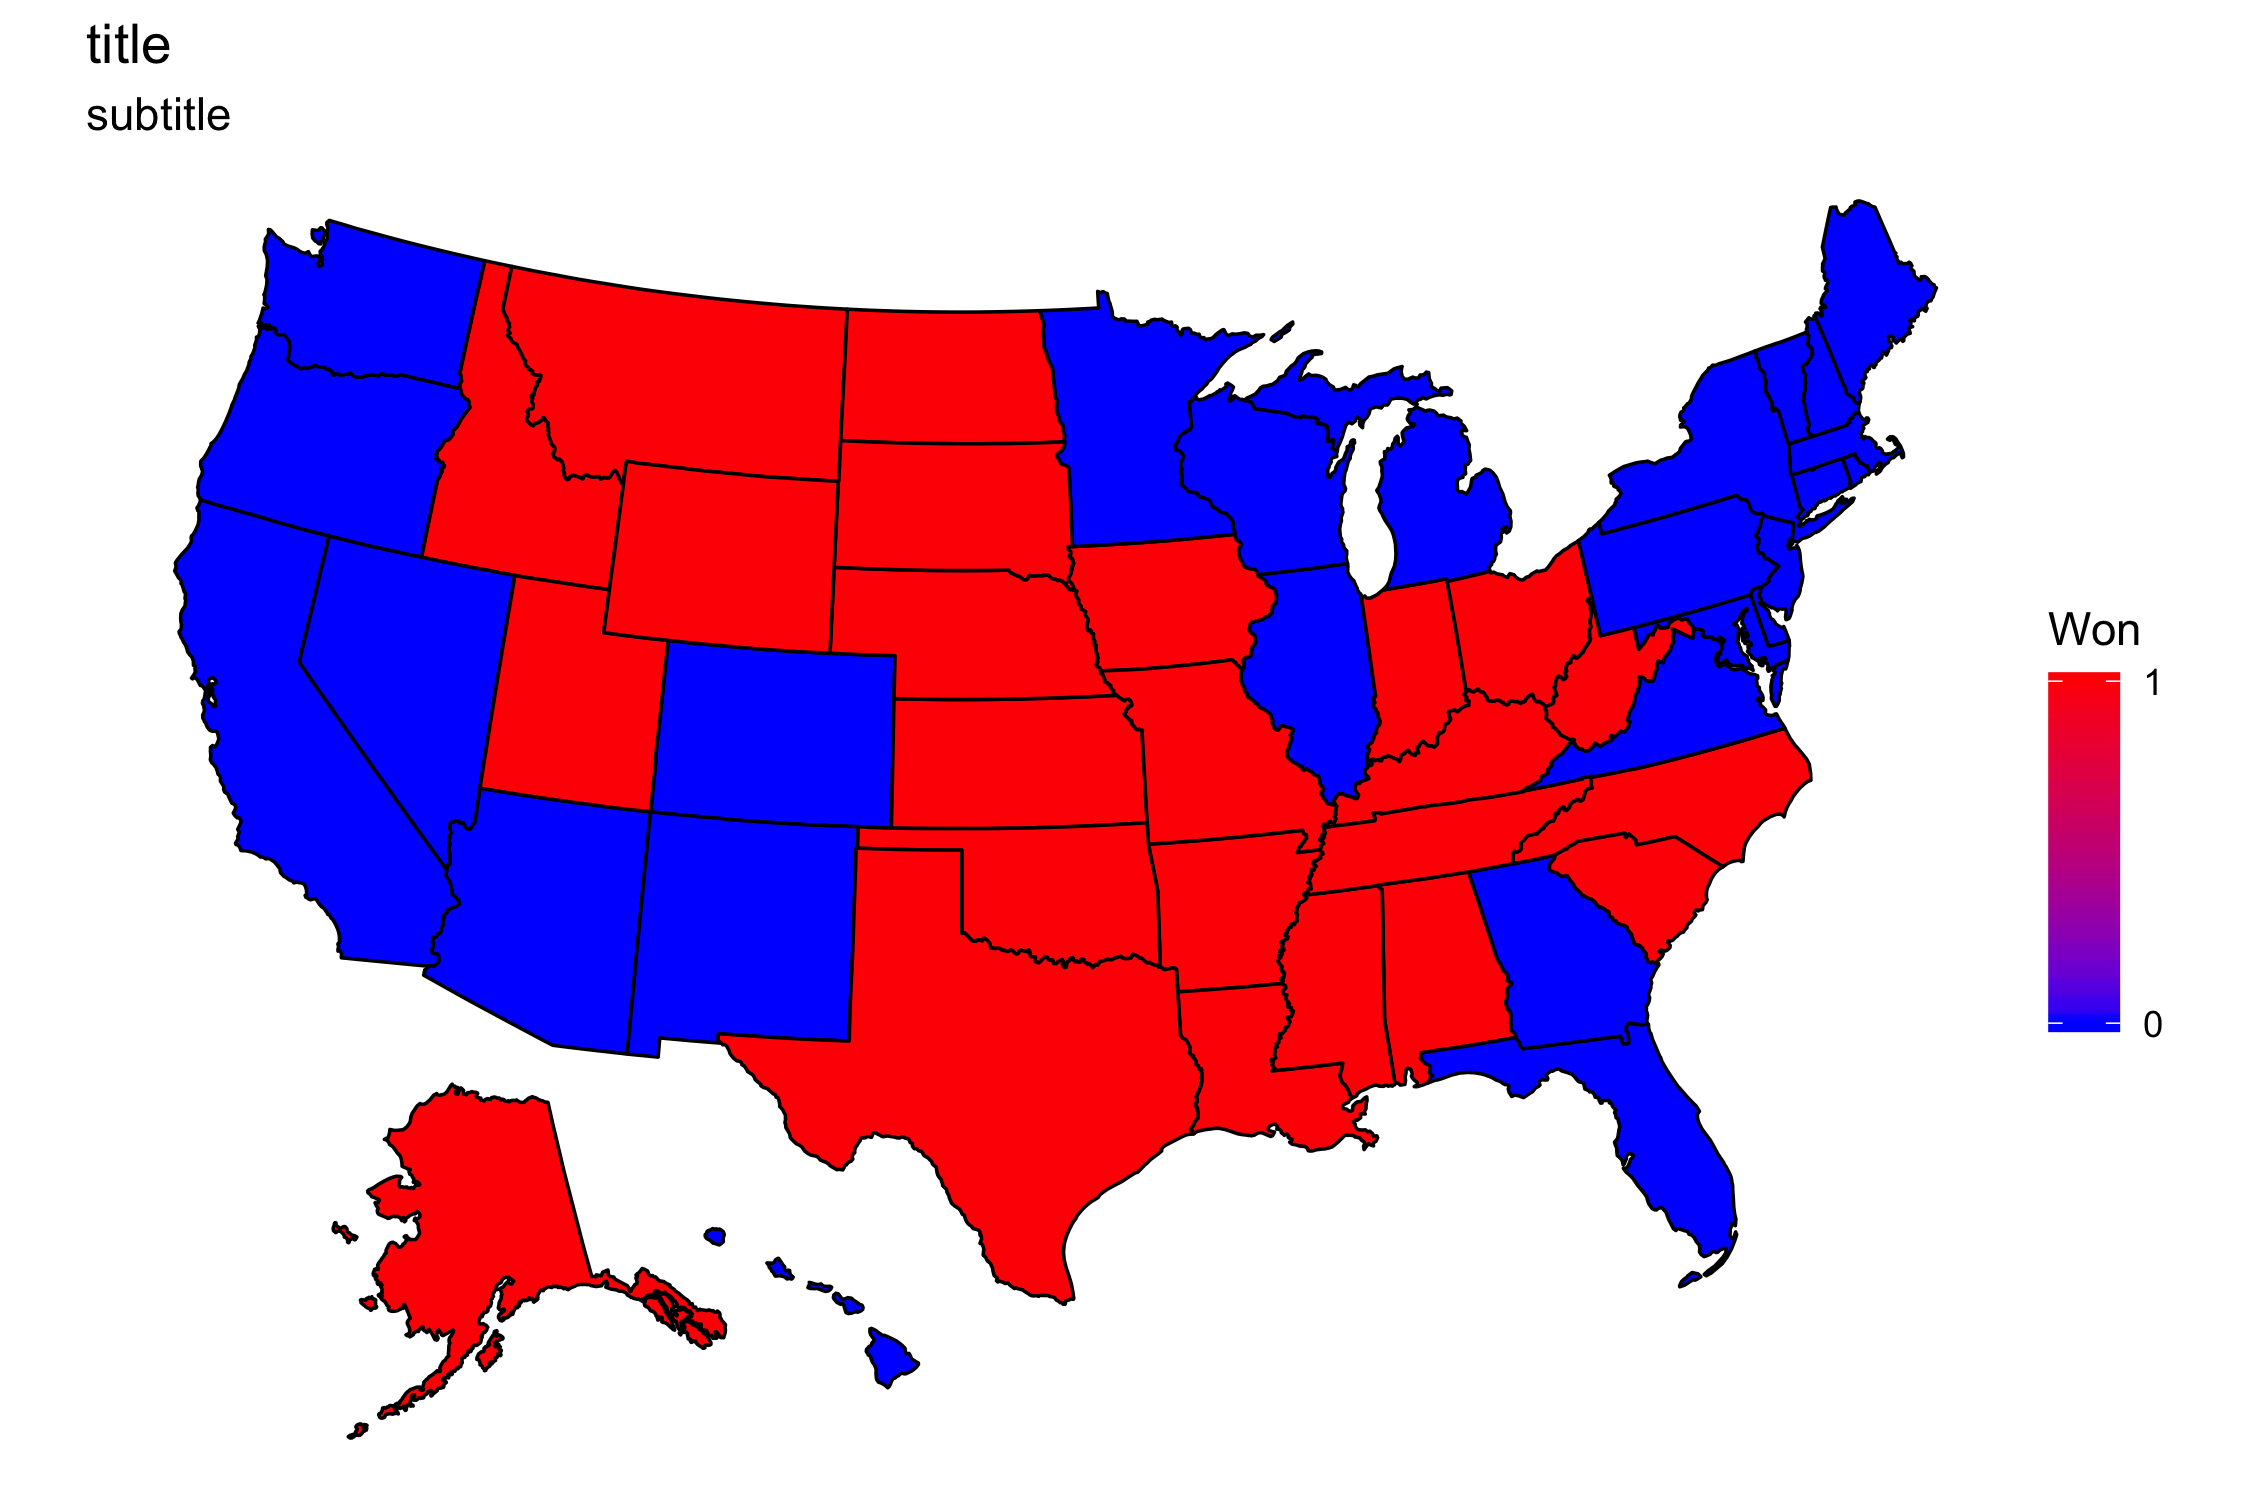
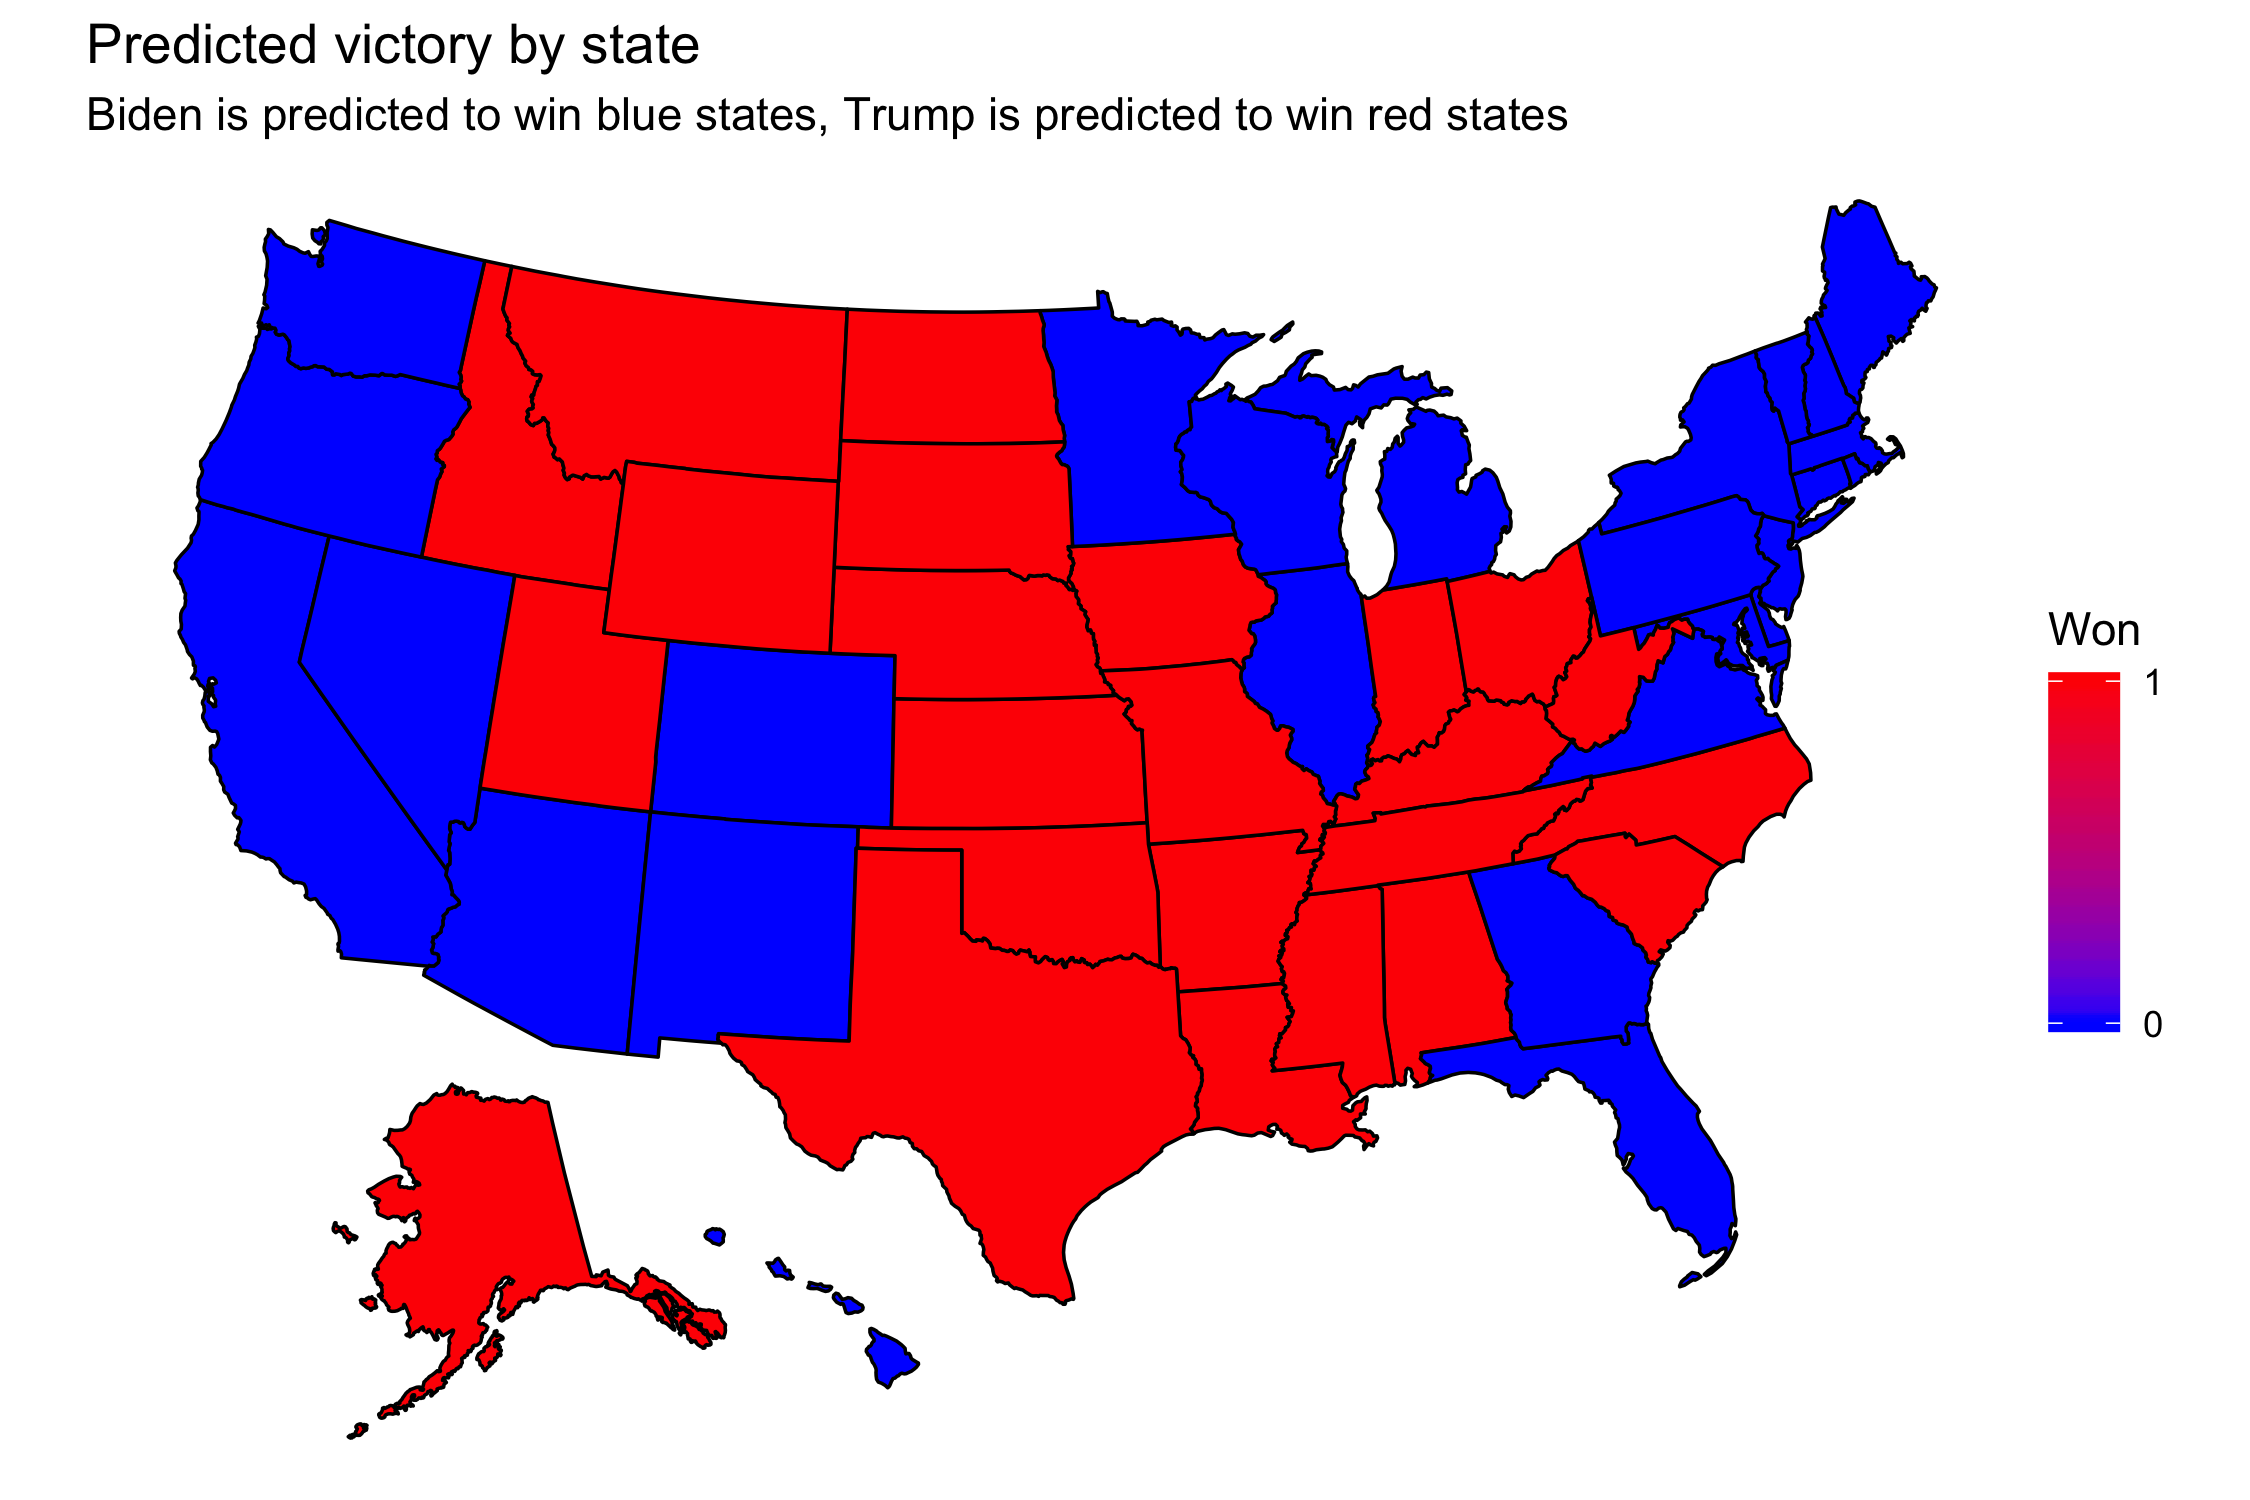
uploading almost complete post

Changed region(s): [[0.0311, 0.0, 0.7156, 0.092]]

diff --git a/docs/posts/final-prediction.md b/docs/posts/final-prediction.md
@@ -1,17 +1,28 @@
-## The mobilization battle: turnout and vote share
-### October 24, 2020
+## Final prediction
+### November 1, 2020
 
 [Back to main page](https://hwsimpson33.github.io/pres2020/)
 
--Explain model basics
--Justification (cite king paper)
--Predictions + intervals
-maps
-predictions table
+I am using a very simple model to predict the 2020 election, but one grounded in political science results and the patterns I have observed in previous weeks. For each state, I have taken the result from the previous presidential election and an average of all high-quality polls in the thirty days before the election and used them to predict election results with a linear regression. I chose to use previous vote share because states often show continuity between elections (as I learned in my [Week 1](week1.md) blog post). I am using polls from just before the election because [political science research](https://gking.harvard.edu/files/abs/variable-abs.shtml) has shown that polls are often very accurate in the days leading up to the election. I am not including the so-called "fundamental" variables like economic performance and incumbency or campaign variables like ad spending and field offices because these factors should be "priced in" to the polls at this late stage in the race. In previous weeks, I have not found significant effects for state-level results and the national economy (see [Week 2](week2.md)). I have also found that ad spending does not foreshadow poll movements but TV mentions of candidates' names does (see [Week 5](week5.md)). Therefore, I have decided to focus on two aspects of the presidential race: the polls, which capture the state of the race and previous state-level vote, which sometimes acts as a corrective to the polls.
+
+This model predicts that *Donald Trump* will win between *164* and *263* electoral college votes with 95% probability, with the most likey result that he wins *203* votes. Conversely, *Joe Biden* will win between *275* and *374* votes with 95% probability, with his most likely tally at *335*. Although a Trump victory (for which he needs *270* electoral college votes) is outside the 95% confidence interval of this model, it is very close to the edge of that interval (263 votes for Trump). This model predicts a Biden victory, but there is still a small chance that Trump will win.
+
+<img src = "../images/won_map_plot.png">
+[Click here to see full-size image.](https://hwsimpson33.github.io/pres2020/images/won_map_plot.png)
+
+This map shows how "safe" states are predicted to be. The more red a state is, the more confident this model is that the state will vote for Trump. The more blue a state is, the greater the probability it will go for Biden
+
+<img src = "../images/uncertainty_map_plot.png">
+[Click here to see full-size image.](https://hwsimpson33.github.io/pres2020/images/uncertainty_map_plot.png)
+
+
 
 -dive into the model itself (formula, interpretation of coefficients)
-coefficients table
 -discuss model validation
+
+-ways to make this more complicated: county-level, poll aggregation, nebraska + maine
+
+coefficients table and fit table
 
 <table style="border-collapse:collapse;" class=table_9844 border=2>
 <thead>
@@ -332,7 +343,18 @@ coefficients table
 </tbody>
 </table>
 
-
+<table style="border-collapse:collapse;" class=table_9844 border=2>
+<thead>
+<tr>
+  <th id="tableHTML_header_1">State</th>
+  <th id="tableHTML_header_2">Term</th>
+  <th id="tableHTML_header_3">Estimate</th>
+  <th id="tableHTML_header_4">Std. error</th>
+  <th id="tableHTML_header_4">p value</th>
+</tr>
+</thead>
+<tbody>
+<tr>
 <td id="tableHTML_column_1">Arkansas</td>
   <td id="tableHTML_column_2">Republican lead in last 30 days</td>
   <td id="tableHTML_column_3">1.1393</td>
@@ -1337,5 +1359,322 @@ coefficients table
 </table>
 
 
-
+<table style="border-collapse:collapse;" class=table_4464 border=2>
+<thead>
+<tr>
+  <th id="tableHTML_header_1">State</th>
+  <th id="tableHTML_header_2">r squared</th>
+  <th id="tableHTML_header_3">Adjusted r squared</th>
+  <th id="tableHTML_header_4">Mean squared error</th>
+</tr>
+</thead>
+<tbody>
+<tr>
+  <td id="tableHTML_column_1">Alabama</td>
+  <td id="tableHTML_column_2">0.9081</td>
+  <td id="tableHTML_column_3">0.8818</td>
+  <td id="tableHTML_column_4">9.5906</td>
+</tr>
+<tr>
+  <td id="tableHTML_column_1">Alaska</td>
+  <td id="tableHTML_column_2">0.7652</td>
+  <td id="tableHTML_column_3">0.6478</td>
+  <td id="tableHTML_column_4">18.8022</td>
+</tr>
+<tr>
+  <td id="tableHTML_column_1">Arizona</td>
+  <td id="tableHTML_column_2">0.9062</td>
+  <td id="tableHTML_column_3">0.875</td>
+  <td id="tableHTML_column_4">17.005</td>
+</tr>
+<tr>
+  <td id="tableHTML_column_1">Arkansas</td>
+  <td id="tableHTML_column_2">0.9572</td>
+  <td id="tableHTML_column_3">0.9429</td>
+  <td id="tableHTML_column_4">17.3802</td>
+</tr>
+<tr>
+  <td id="tableHTML_column_1">California</td>
+  <td id="tableHTML_column_2">0.9599</td>
+  <td id="tableHTML_column_3">0.951</td>
+  <td id="tableHTML_column_4">14.5651</td>
+</tr>
+<tr>
+  <td id="tableHTML_column_1">Colorado</td>
+  <td id="tableHTML_column_2">0.9282</td>
+  <td id="tableHTML_column_3">0.9123</td>
+  <td id="tableHTML_column_4">17.2602</td>
+</tr>
+<tr>
+  <td id="tableHTML_column_1">Connecticut</td>
+  <td id="tableHTML_column_2">0.9601</td>
+  <td id="tableHTML_column_3">0.9513</td>
+  <td id="tableHTML_column_4">12.2966</td>
+</tr>
+<tr>
+  <td id="tableHTML_column_1">Delaware</td>
+  <td id="tableHTML_column_2">0.8515</td>
+  <td id="tableHTML_column_3">0.802</td>
+  <td id="tableHTML_column_4">24.0262</td>
+</tr>
+<tr>
+  <td id="tableHTML_column_1">District of Columbia</td>
+  <td id="tableHTML_column_2">0.4774</td>
+  <td id="tableHTML_column_3">-0.0453</td>
+  <td id="tableHTML_column_4">23.5987</td>
+</tr>
+<tr>
+  <td id="tableHTML_column_1">Florida</td>
+  <td id="tableHTML_column_2">0.9178</td>
+  <td id="tableHTML_column_3">0.8943</td>
+  <td id="tableHTML_column_4">16.0469</td>
+</tr>
+<tr>
+  <td id="tableHTML_column_1">Georgia</td>
+  <td id="tableHTML_column_2">0.9555</td>
+  <td id="tableHTML_column_3">0.9427</td>
+  <td id="tableHTML_column_4">14.6736</td>
+</tr>
+<tr>
+  <td id="tableHTML_column_1">Hawaii</td>
+  <td id="tableHTML_column_2">0.8674</td>
+  <td id="tableHTML_column_3">0.8232</td>
+  <td id="tableHTML_column_4">44.9428</td>
+</tr>
+<tr>
+  <td id="tableHTML_column_1">Idaho</td>
+  <td id="tableHTML_column_2">0.4179</td>
+  <td id="tableHTML_column_3">0.2238</td>
+  <td id="tableHTML_column_4">68.5228</td>
+</tr>
+<tr>
+  <td id="tableHTML_column_1">Illinois</td>
+  <td id="tableHTML_column_2">0.8907</td>
+  <td id="tableHTML_column_3">0.8664</td>
+  <td id="tableHTML_column_4">28.136</td>
+</tr>
+<tr>
+  <td id="tableHTML_column_1">Indiana</td>
+  <td id="tableHTML_column_2">0.6293</td>
+  <td id="tableHTML_column_3">0.5233</td>
+  <td id="tableHTML_column_4">32.0221</td>
+</tr>
+<tr>
+  <td id="tableHTML_column_1">Iowa</td>
+  <td id="tableHTML_column_2">0.7858</td>
+  <td id="tableHTML_column_3">0.7322</td>
+  <td id="tableHTML_column_4">20.5895</td>
+</tr>
+<tr>
+  <td id="tableHTML_column_1">Kansas</td>
+  <td id="tableHTML_column_2">0.8678</td>
+  <td id="tableHTML_column_3">0.8384</td>
+  <td id="tableHTML_column_4">15.0552</td>
+</tr>
+<tr>
+  <td id="tableHTML_column_1">Kentucky</td>
+  <td id="tableHTML_column_2">0.8472</td>
+  <td id="tableHTML_column_3">0.8035</td>
+  <td id="tableHTML_column_4">26.0935</td>
+</tr>
+<tr>
+  <td id="tableHTML_column_1">Louisiana</td>
+  <td id="tableHTML_column_2">0.8742</td>
+  <td id="tableHTML_column_3">0.8323</td>
+  <td id="tableHTML_column_4">21.7768</td>
+</tr>
+<tr>
+  <td id="tableHTML_column_1">Maine</td>
+  <td id="tableHTML_column_2">0.6289</td>
+  <td id="tableHTML_column_3">0.5228</td>
+  <td id="tableHTML_column_4">58.0615</td>
+</tr>
+<tr>
+  <td id="tableHTML_column_1">Maryland</td>
+  <td id="tableHTML_column_2">0.8427</td>
+  <td id="tableHTML_column_3">0.8033</td>
+  <td id="tableHTML_column_4">26.8092</td>
+</tr>
+<tr>
+  <td id="tableHTML_column_1">Massachusetts</td>
+  <td id="tableHTML_column_2">0.7621</td>
+  <td id="tableHTML_column_3">0.7092</td>
+  <td id="tableHTML_column_4">46.7406</td>
+</tr>
+<tr>
+  <td id="tableHTML_column_1">Michigan</td>
+  <td id="tableHTML_column_2">0.8829</td>
+  <td id="tableHTML_column_3">0.8536</td>
+  <td id="tableHTML_column_4">14.9445</td>
+</tr>
+<tr>
+  <td id="tableHTML_column_1">Minnesota</td>
+  <td id="tableHTML_column_2">0.4815</td>
+  <td id="tableHTML_column_3">0.3663</td>
+  <td id="tableHTML_column_4">30.7257</td>
+</tr>
+<tr>
+  <td id="tableHTML_column_1">Mississippi</td>
+  <td id="tableHTML_column_2">0.4913</td>
+  <td id="tableHTML_column_3">0.2879</td>
+  <td id="tableHTML_column_4">35.2973</td>
+</tr>
+<tr>
+  <td id="tableHTML_column_1">Missouri</td>
+  <td id="tableHTML_column_2">0.7994</td>
+  <td id="tableHTML_column_3">0.7548</td>
+  <td id="tableHTML_column_4">31.6354</td>
+</tr>
+<tr>
+  <td id="tableHTML_column_1">Montana</td>
+  <td id="tableHTML_column_2">0.9594</td>
+  <td id="tableHTML_column_3">0.9431</td>
+  <td id="tableHTML_column_4">7.0347</td>
+</tr>
+<tr>
+  <td id="tableHTML_column_1">Nebraska</td>
+  <td id="tableHTML_column_2">0.643</td>
+  <td id="tableHTML_column_3">0.5538</td>
+  <td id="tableHTML_column_4">36.8048</td>
+</tr>
+<tr>
+  <td id="tableHTML_column_1">Nevada</td>
+  <td id="tableHTML_column_2">0.8917</td>
+  <td id="tableHTML_column_3">0.8556</td>
+  <td id="tableHTML_column_4">38.3181</td>
+</tr>
+<tr>
+  <td id="tableHTML_column_1">New Hampshire</td>
+  <td id="tableHTML_column_2">0.7259</td>
+  <td id="tableHTML_column_3">0.6476</td>
+  <td id="tableHTML_column_4">120.2663</td>
+</tr>
+<tr>
+  <td id="tableHTML_column_1">New Jersey</td>
+  <td id="tableHTML_column_2">0.9115</td>
+  <td id="tableHTML_column_3">0.8919</td>
+  <td id="tableHTML_column_4">29.1894</td>
+</tr>
+<tr>
+  <td id="tableHTML_column_1">New Mexico</td>
+  <td id="tableHTML_column_2">0.9009</td>
+  <td id="tableHTML_column_3">0.8679</td>
+  <td id="tableHTML_column_4">16.1361</td>
+</tr>
+<tr>
+  <td id="tableHTML_column_1">New York</td>
+  <td id="tableHTML_column_2">0.9751</td>
+  <td id="tableHTML_column_3">0.9695</td>
+  <td id="tableHTML_column_4">8.7625</td>
+</tr>
+<tr>
+  <td id="tableHTML_column_1">North Carolina</td>
+  <td id="tableHTML_column_2">0.8798</td>
+  <td id="tableHTML_column_3">0.8531</td>
+  <td id="tableHTML_column_4">27.2689</td>
+</tr>
+<tr>
+  <td id="tableHTML_column_1">North Dakota</td>
+  <td id="tableHTML_column_2">0.8292</td>
+  <td id="tableHTML_column_3">0.7723</td>
+  <td id="tableHTML_column_4">36.6662</td>
+</tr>
+<tr>
+  <td id="tableHTML_column_1">Ohio</td>
+  <td id="tableHTML_column_2">0.9019</td>
+  <td id="tableHTML_column_3">0.8801</td>
+  <td id="tableHTML_column_4">10.6094</td>
+</tr>
+<tr>
+  <td id="tableHTML_column_1">Oklahoma</td>
+  <td id="tableHTML_column_2">0.8798</td>
+  <td id="tableHTML_column_3">0.8454</td>
+  <td id="tableHTML_column_4">25.5973</td>
+</tr>
+<tr>
+  <td id="tableHTML_column_1">Oregon</td>
+  <td id="tableHTML_column_2">0.919</td>
+  <td id="tableHTML_column_3">0.901</td>
+  <td id="tableHTML_column_4">10.3711</td>
+</tr>
+<tr>
+  <td id="tableHTML_column_1">Pennsylvania</td>
+  <td id="tableHTML_column_2">0.9091</td>
+  <td id="tableHTML_column_3">0.8863</td>
+  <td id="tableHTML_column_4">10.5158</td>
+</tr>
+<tr>
+  <td id="tableHTML_column_1">Rhode Island</td>
+  <td id="tableHTML_column_2">0.9315</td>
+  <td id="tableHTML_column_3">0.912</td>
+  <td id="tableHTML_column_4">12.6548</td>
+</tr>
+<tr>
+  <td id="tableHTML_column_1">South Carolina</td>
+  <td id="tableHTML_column_2">0.7405</td>
+  <td id="tableHTML_column_3">0.6663</td>
+  <td id="tableHTML_column_4">35.7575</td>
+</tr>
+<tr>
+  <td id="tableHTML_column_1">South Dakota</td>
+  <td id="tableHTML_column_2">0.807</td>
+  <td id="tableHTML_column_3">0.7519</td>
+  <td id="tableHTML_column_4">33.3406</td>
+</tr>
+<tr>
+  <td id="tableHTML_column_1">Tennessee</td>
+  <td id="tableHTML_column_2">0.8277</td>
+  <td id="tableHTML_column_3">0.7703</td>
+  <td id="tableHTML_column_4">29.2923</td>
+</tr>
+<tr>
+  <td id="tableHTML_column_1">Texas</td>
+  <td id="tableHTML_column_2">0.8369</td>
+  <td id="tableHTML_column_3">0.7903</td>
+  <td id="tableHTML_column_4">12.1371</td>
+</tr>
+<tr>
+  <td id="tableHTML_column_1">Utah</td>
+  <td id="tableHTML_column_2">0.9179</td>
+  <td id="tableHTML_column_3">0.8944</td>
+  <td id="tableHTML_column_4">11.4469</td>
+</tr>
+<tr>
+  <td id="tableHTML_column_1">Vermont</td>
+  <td id="tableHTML_column_2">0.8959</td>
+  <td id="tableHTML_column_3">0.8543</td>
+  <td id="tableHTML_column_4">27.659</td>
+</tr>
+<tr>
+  <td id="tableHTML_column_1">Virginia</td>
+  <td id="tableHTML_column_2">0.9055</td>
+  <td id="tableHTML_column_3">0.8785</td>
+  <td id="tableHTML_column_4">14.2746</td>
+</tr>
+<tr>
+  <td id="tableHTML_column_1">Washington</td>
+  <td id="tableHTML_column_2">0.9448</td>
+  <td id="tableHTML_column_3">0.931</td>
+  <td id="tableHTML_column_4">9.8208</td>
+</tr>
+<tr>
+  <td id="tableHTML_column_1">West Virginia</td>
+  <td id="tableHTML_column_2">0.9728</td>
+  <td id="tableHTML_column_3">0.965</td>
+  <td id="tableHTML_column_4">12.6105</td>
+</tr>
+<tr>
+  <td id="tableHTML_column_1">Wisconsin</td>
+  <td id="tableHTML_column_2">0.7912</td>
+  <td id="tableHTML_column_3">0.7316</td>
+  <td id="tableHTML_column_4">13.9998</td>
+</tr>
+<tr>
+  <td id="tableHTML_column_1">Wyoming</td>
+  <td id="tableHTML_column_2">0.8837</td>
+  <td id="tableHTML_column_3">0.8062</td>
+  <td id="tableHTML_column_4">53.4837</td>
+</tr>
+</tbody>
+</table>
 [Back to main page](https://hwsimpson33.github.io/pres2020/)
